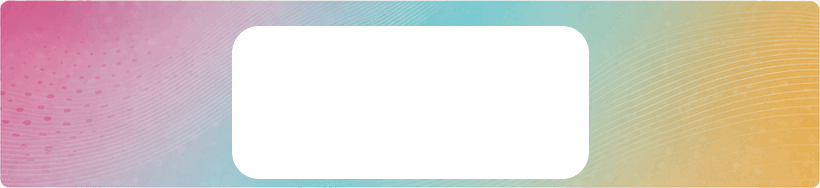
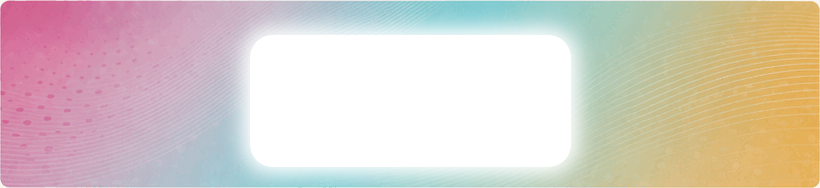
fix(atelier): refine hybrid source masks

Changed region(s): [[0.2744, 0.0798, 0.7317, 0.984]]

diff --git a/apps/web/app/champagne/atelier-recovery/components/a2/reconstructed.module.css b/apps/web/app/champagne/atelier-recovery/components/a2/reconstructed.module.css
@@ -19,7 +19,7 @@
 .decisionClarity > header, .decisionColumns { position: relative; z-index: 1; }
 .decisionClarity > header { display: grid; grid-template-columns: 7.2cqi 1fr; gap: 1.45cqi; align-items: start; padding: 0; border: 0; }
 .decisionClarity > header > span { color: var(--champagne-keyline-gold); font: 400 5.35cqi/.78 var(--font-playfair, Georgia, serif); letter-spacing: -.04em; }
-.decisionClarity > header small { display: block; margin-bottom: .55cqi; color: var(--text-high); font: 600 .72cqi/1.15 var(--font-inter, Arial, sans-serif); letter-spacing: .14em; text-transform: uppercase; }
+.decisionClarity > header small { display: block; margin-bottom: 1.5cqi; color: var(--text-high); font: 600 .72cqi/1.15 var(--font-inter, Arial, sans-serif); letter-spacing: .14em; text-transform: uppercase; }
 .decisionClarity h2 { margin: 0; font: 400 3.05cqi/1.03 var(--font-playfair, Georgia, serif); letter-spacing: -.015em; }
 .decisionClarity h2 i, .decisionColumns aside strong i { margin-left: .5cqi; color: var(--brand-magenta); font-size: .55em; font-style: normal; }
 .decisionClarity header p { margin: .75cqi 0 0; color: color-mix(in oklab, var(--text-high) 90%, transparent); font: 400 1.18cqi/1.25 var(--font-playfair, Georgia, serif); }
@@ -30,7 +30,7 @@
 .decisionColumns h3 svg { flex: 0 0 auto; width: 2.45cqi; height: 2.45cqi; fill: none; stroke: var(--brand-teal); stroke-width: 1.3; stroke-linecap: round; stroke-linejoin: round; }
 .decisionColumns section[data-tone="gold"] h3 svg { stroke: var(--brand-teal); }
 .decisionColumns ul { margin: 0; padding: 0; list-style: none; }
-.decisionColumns li { position: relative; margin: 0 0 .64cqi; padding-left: .8cqi; color: color-mix(in oklab, var(--text-high) 92%, transparent); font: 400 1.14cqi/1.34 var(--font-playfair, Georgia, serif); }
+.decisionColumns li { position: relative; margin: 0 0 .64cqi; padding-left: .8cqi; color: color-mix(in oklab, var(--text-high) 92%, transparent); font: 400 1.18cqi/1.34 var(--font-playfair, Georgia, serif); }
 .decisionColumns li::before { position: absolute; left: 0; color: var(--champagne-keyline-gold); content: "•"; }
 .decisionColumns > aside { display: flex; flex-direction: column; min-width: 0; margin: -2.05cqi 0 -.75cqi 1.65cqi; padding: 1.65cqi 1.75cqi; border: 1px solid var(--champagne-keyline-gold); }
 .decisionColumns aside strong { margin: 0 0 1cqi; color: var(--text-high); font: 400 1.58cqi/1.2 var(--font-playfair, Georgia, serif); }
@@ -67,7 +67,7 @@
 .descentFooter { position: relative; aspect-ratio: 1167 / 279; min-height: 0; overflow: hidden; color: var(--surface-ink); background: var(--surface-0); }
 .footerPorcelainField, .footerDepthField, .footerWave, .footerParticles { position: absolute; pointer-events: none; }
 .footerPorcelainField { z-index: 0; inset: 0 0 auto; height: 10cqi; background: url("/assets/champagne/atelier-recovery/a2h/footer-porcelain-field.webp") center top / 100% 100% no-repeat; }
-.footerDepthField { z-index: 1; inset: 8cqi 0 0; background: var(--surface-ink) url("/assets/champagne/atelier-recovery/a2h/footer-persian-depth.webp") center bottom / 100% 100% no-repeat; }
+.footerDepthField { z-index: 1; inset: 0; background: url("/assets/champagne/atelier-recovery/a2h/footer-persian-depth.webp") center / 100% 100% no-repeat; }
 .footerLedge { position: absolute; z-index: 3; inset: 0 0 auto; display: grid; grid-template-columns: 25% 22% 1fr; gap: 1.7cqi; align-items: center; height: 8.5cqi; padding: .35cqi 8cqi .2cqi 1.35cqi; }
 .houseLineArt { align-self: start; width: 100%; height: 13cqi; background: url("/assets/champagne/atelier-recovery/a2h/footer-heritage-house.webp") left top / 100% 100% no-repeat; transform: translate(-1.35cqi, -.35cqi); }
 .footerIdentity { display: grid; grid-template-columns: 4.8cqi 1fr; gap: 1.1cqi; align-items: center; transform: translateY(-.8cqi); }
@@ -83,7 +83,6 @@
 .footerParticles i { position: absolute; left: 0; width: 42.8cqi; height: 100%; background: url("/assets/champagne/atelier-recovery/a2h/footer-particles-left.webp") left center / 100% 100% no-repeat; }
 .footerParticles i + i { right: 0; left: auto; transform: scaleX(-1); }
 .footerDepth { position: absolute; z-index: 3; inset: 10cqi 0 3.2cqi; display: grid; grid-template-columns: 1fr 12cqi; gap: 3cqi; padding: .4cqi 5cqi 0 48cqi; color: var(--text-high); }
-.footerDepth::before { position: absolute; inset: 42% 70% -20% -5%; opacity: .65; background-image: radial-gradient(circle, var(--champagne-keyline-gold) 0 .09cqi, transparent .12cqi); background-size: 1.15cqi 1.15cqi; mask-image: radial-gradient(ellipse, var(--surface-ink), transparent 72%); content: ""; }
 .footerDepth > nav { display: grid; grid-template-columns: repeat(4, 1fr); gap: 2.3cqi; }
 .footerDepth section h2 { margin: 0 0 .7cqi; color: var(--champagne-keyline-gold); font: 500 .85cqi/1 var(--font-inter, Arial, sans-serif); letter-spacing: .11em; text-transform: uppercase; }
 .footerDepth section a { display: block; margin: 0 0 .42cqi; color: color-mix(in oklab, var(--text-high) 80%, transparent); font: 400 .68cqi/1.15 var(--font-playfair, Georgia, serif); text-decoration: none; }
